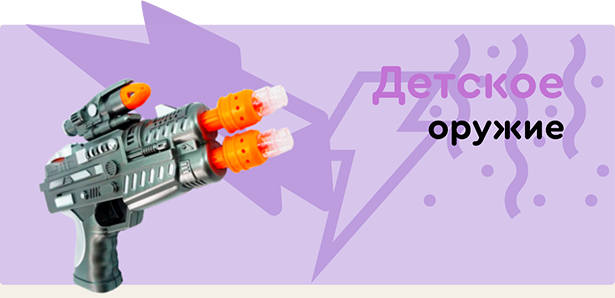
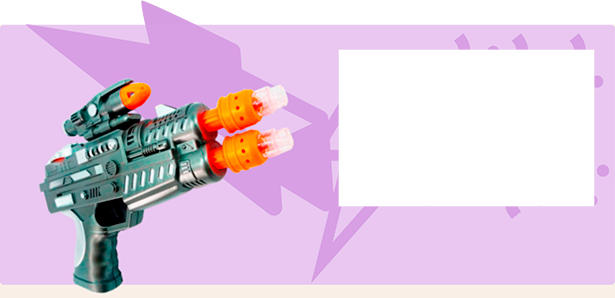
bugfix

diff --git a/app/css/style.css b/app/css/style.css
@@ -712,8 +712,8 @@ th {
 
 @font-face {
   font-family: 'cera_round_pro_bold';
-  src: url("../fonts/CeraRoundPro/CeraRoundPro-bold/CeraRoundPro-Bold.eot");
-  src: url("../fonts/CeraRoundPro/CeraRoundPro-bold/CeraRoundPro-Bold.eot?#iefix") format("embedded-opentype"), url("../fonts/CeraRoundPro/CeraRoundPro-bold/CeraRoundPro-Bold.woff") format("woff"), url("../fonts/CeraRoundPro/CeraRoundPro-bold/CeraRoundPro-Bold.ttf") format("truetype"), url("../fonts/CeraRoundPro/CeraRoundPro-bold/CeraRoundPro-Bold.svg#CeraRoundPro-Bold") format("svg");
+  src: url("../fonts/ceraroundpro/ceraroundpro-bold/ceraroundpro-bold.eot");
+  src: url("../fonts/ceraroundpro/ceraroundpro-bold/ceraroundpro-bold.eot?#iefix") format("embedded-opentype"), url("../fonts/ceraroundpro/ceraroundpro-bold/ceraroundpro-bold.woff") format("woff"), url("../fonts/ceraroundpro/ceraroundpro-bold/ceraroundpro-bold.ttf") format("truetype"), url("../fonts/ceraroundpro/ceraroundpro-bold/ceraroundpro-bold.svg#ceraroundpro-bold") format("svg");
   font-weight: normal;
   font-style: normal; }
 
@@ -2519,8 +2519,8 @@ a.breadcrumbs__item {
   vertical-align: middle;
   margin-bottom: 13px;
   margin-right: 13px;
-  -webkit-border-radius: 30px;
-          border-radius: 30px;
+  -webkit-border-radius: 35px;
+          border-radius: 35px;
   border: 1px solid transparent;
   -webkit-transition: all 0.3s ease;
   transition: all 0.3s ease;
@@ -4135,7 +4135,9 @@ input[type="email"],
   background-size: cover;
   background-repeat: no-repeat;
   background-position: center;
-  height: 500px; }
+  height: 500px;
+  display: block;
+  width: 100%; }
 
 .main-slider__info {
   background: #fff url(../img/svg/m-bg.svg) repeat;
@@ -4429,19 +4431,30 @@ input[type="email"],
   -webkit-transition: all 0.3s ease;
   transition: all 0.3s ease; }
 
-.banners__in--blue-sqheme {
-  background: #b3e6fd url(../img/content/banner-1.png) center 0 no-repeat;
-  background-size: cover;
+.banners__item--blue-sqheme {
   text-align: left; }
-  .banners__in--blue-sqheme span {
+  .banners__item--blue-sqheme .banners__txt {
+    padding-left: 40px; }
+  .banners__item--blue-sqheme span {
     color: #00a6e0; }
 
-.banners__in--violet-sqheme {
-  background: #d1c4ea url(../img/content/banner-2.png) center 10px no-repeat;
-  background-size: cover;
+.banners__item--violet-sqheme {
   text-align: right; }
-  .banners__in--violet-sqheme span {
+  .banners__item--violet-sqheme .banners__txt {
+    padding-right: 40px; }
+  .banners__item--violet-sqheme span {
     color: #af72ce; }
+
+.banners__txt {
+  color: #000;
+  font-size: 36px;
+  font-family: 'cera_round_pro_bold';
+  max-width: 370px;
+  display: inline-block;
+  padding-top: 45px; }
+  .banners__txt span {
+    font-size: 48px;
+    display: block; }
 
 .main-brends {
   background: #fff;
@@ -6220,7 +6233,11 @@ a.map-view {
   .product-info__price .btn-tooltip-wrap {
     float: none; }
   .popup-inline {
-    padding: 20px; } }
+    padding: 20px; }
+  .banners__item--blue-sqheme .banners__txt {
+    padding-left: 0; }
+  .banners__item--violet-sqheme .banners__txt {
+    padding-right: 0; } }
 
 @media screen and (max-width: 550px) {
   .img-list__item {

diff --git a/app/index.html b/app/index.html
@@ -437,7 +437,7 @@
 								<!-- CONTENT-PART -->
 								<div class="main-slider">
 									<div class="main-slider__item">
-										<div class="main-slider__img" style="background-image: url(img/content/main_banner.png);"></div>
+										<a href="#" class="main-slider__img" style="background-image: url(img/content/main_banner.png);"></a>
 										<div class="main-slider__info">
 											<div class="main-slider__title">-30 на все</div>
 											<div class="main-slider__txt">
@@ -447,7 +447,7 @@
 										</div>
 									</div>
 									<div class="main-slider__item">
-										<div class="main-slider__img" style="background-image: url(img/content/main_banner.png);"></div>
+										<a href="#" class="main-slider__img" style="background-image: url(img/content/main_banner.png);"></a>
 										<div class="main-slider__info">
 											<div class="main-slider__title">0 на все</div>
 											<div class="main-slider__txt">
@@ -457,7 +457,7 @@
 										</div>
 									</div>
 									<div class="main-slider__item">
-										<div class="main-slider__img" style="background-image: url(img/content/main_banner.png);"></div>
+										<a href="#" class="main-slider__img" style="background-image: url(img/content/main_banner.png);"></a>
 										<div class="main-slider__info">
 											<div class="main-slider__title">Без скидок</div>
 											<div class="main-slider__txt">
@@ -713,11 +713,19 @@
 									</div>
 								</div>
 								<div class="banners">
-									<a href="#" class="banners__item">
-										<div class="banners__in" style="background-image: url(img/content/banner1.png)"></div>
+									<a href="#" class="banners__item banners__item--blue-sqheme">
+										<div class="banners__in" style="background-image: url(img/content/banner1.png)">
+											<div class="banners__txt">
+												<span>Дистанционно</span> управляемые игрушки
+											</div>
+										</div>
 									</a>
-									<a href="#" class="banners__item">
-										<div class="banners__in" style="background-image: url(img/content/banner2.png)"></div>
+									<a href="#" class="banners__item banners__item--violet-sqheme">
+										<div class="banners__in" style="background-image: url(img/content/banner2.png)">
+											<div class="banners__txt">
+												<span>Детское</span> оружие
+											</div>
+										</div>
 									</a>
 								</div>
 								<!--end CONTENT-PART -->

diff --git a/dist/index.html b/dist/index.html
@@ -437,7 +437,7 @@
 								<!-- CONTENT-PART -->
 								<div class="main-slider">
 									<div class="main-slider__item">
-										<div class="main-slider__img" style="background-image: url(img/content/main_banner.png);"></div>
+										<a href="#" class="main-slider__img" style="background-image: url(img/content/main_banner.png);"></a>
 										<div class="main-slider__info">
 											<div class="main-slider__title">-30 на все</div>
 											<div class="main-slider__txt">
@@ -447,7 +447,7 @@
 										</div>
 									</div>
 									<div class="main-slider__item">
-										<div class="main-slider__img" style="background-image: url(img/content/main_banner.png);"></div>
+										<a href="#" class="main-slider__img" style="background-image: url(img/content/main_banner.png);"></a>
 										<div class="main-slider__info">
 											<div class="main-slider__title">0 на все</div>
 											<div class="main-slider__txt">
@@ -457,7 +457,7 @@
 										</div>
 									</div>
 									<div class="main-slider__item">
-										<div class="main-slider__img" style="background-image: url(img/content/main_banner.png);"></div>
+										<a href="#" class="main-slider__img" style="background-image: url(img/content/main_banner.png);"></a>
 										<div class="main-slider__info">
 											<div class="main-slider__title">Без скидок</div>
 											<div class="main-slider__txt">
@@ -713,11 +713,19 @@
 									</div>
 								</div>
 								<div class="banners">
-									<a href="#" class="banners__item">
-										<div class="banners__in" style="background-image: url(img/content/banner1.png)"></div>
+									<a href="#" class="banners__item banners__item--blue-sqheme">
+										<div class="banners__in" style="background-image: url(img/content/banner1.png)">
+											<div class="banners__txt">
+												<span>Дистанционно</span> управляемые игрушки
+											</div>
+										</div>
 									</a>
-									<a href="#" class="banners__item">
-										<div class="banners__in" style="background-image: url(img/content/banner2.png)"></div>
+									<a href="#" class="banners__item banners__item--violet-sqheme">
+										<div class="banners__in" style="background-image: url(img/content/banner2.png)">
+											<div class="banners__txt">
+												<span>Детское</span> оружие
+											</div>
+										</div>
 									</a>
 								</div>
 								<!--end CONTENT-PART -->

diff --git a/app/scss/style.scss b/app/scss/style.scss
@@ -14,11 +14,11 @@
 
 @font-face {
     font-family: 'cera_round_pro_bold';
-    src: url('../fonts/CeraRoundPro/CeraRoundPro-bold/CeraRoundPro-Bold.eot');
-    src: url('../fonts/CeraRoundPro/CeraRoundPro-bold/CeraRoundPro-Bold.eot?#iefix') format('embedded-opentype'),
-         url('../fonts/CeraRoundPro/CeraRoundPro-bold/CeraRoundPro-Bold.woff') format('woff'),
-         url('../fonts/CeraRoundPro/CeraRoundPro-bold/CeraRoundPro-Bold.ttf') format('truetype'),
-         url('../fonts/CeraRoundPro/CeraRoundPro-bold/CeraRoundPro-Bold.svg#CeraRoundPro-Bold') format('svg');
+    src: url('../fonts/ceraroundpro/ceraroundpro-bold/ceraroundpro-bold.eot');
+    src: url('../fonts/ceraroundpro/ceraroundpro-bold/ceraroundpro-bold.eot?#iefix') format('embedded-opentype'),
+         url('../fonts/ceraroundpro/ceraroundpro-bold/ceraroundpro-bold.woff') format('woff'),
+         url('../fonts/ceraroundpro/ceraroundpro-bold/ceraroundpro-bold.ttf') format('truetype'),
+         url('../fonts/ceraroundpro/ceraroundpro-bold/ceraroundpro-bold.svg#ceraroundpro-bold') format('svg');
     font-weight: normal;
     font-style: normal;
 }
@@ -1121,7 +1121,7 @@ span.breadcrumbs__item{
 	vertical-align: middle;
 	margin-bottom: 13px;
 	margin-right: 13px;
-	border-radius: 30px;
+	border-radius: 35px;
 	border: 1px solid transparent;
 	transition:all 0.3s ease;
 	font-size: 16px;
@@ -3116,6 +3116,8 @@ span.breadcrumbs__item{
 	background-repeat: no-repeat;
 	background-position: center;
 	height: 500px;
+	display: block;
+	width: 100%;
 }
 
 .main-slider__info{
@@ -3480,21 +3482,37 @@ span.breadcrumbs__item{
 	transition:all 0.3s ease;
 }
 
-.banners__in--blue-sqheme{
-	background: #b3e6fd url(../img/content/banner-1.png) center 0 no-repeat;
-	background-size: cover;
+.banners__item--blue-sqheme{
 	text-align: left;
+	.banners__txt{
+		padding-left: 40px;
+	}
+	
 	span{
 		color: #00a6e0;
 	}
 }
 
-.banners__in--violet-sqheme{
-	background: #d1c4ea url(../img/content/banner-2.png) center 10px no-repeat;
-	background-size: cover;
+.banners__item--violet-sqheme{
 	text-align: right;
+	.banners__txt{
+		padding-right: 40px;
+	}
 	span{
 		color: #af72ce;
+	}
+}
+
+.banners__txt{
+	color: #000;
+	font-size: 36px;
+	font-family: 'cera_round_pro_bold';
+	max-width: 370px;
+	display: inline-block;
+	    padding-top: 45px;
+	span{
+		font-size: 48px;
+		display: block;
 	}
 }
 

diff --git a/dist/css/style.css b/dist/css/style.css
@@ -4135,7 +4135,9 @@ input[type="email"],
   background-size: cover;
   background-repeat: no-repeat;
   background-position: center;
-  height: 500px; }
+  height: 500px;
+  display: block;
+  width: 100%; }
 
 .main-slider__info {
   background: #fff url(../img/svg/m-bg.svg) repeat;
@@ -4429,19 +4431,30 @@ input[type="email"],
   -webkit-transition: all 0.3s ease;
   transition: all 0.3s ease; }
 
-.banners__in--blue-sqheme {
-  background: #b3e6fd url(../img/content/banner-1.png) center 0 no-repeat;
-  background-size: cover;
+.banners__item--blue-sqheme {
   text-align: left; }
-  .banners__in--blue-sqheme span {
+  .banners__item--blue-sqheme .banners__txt {
+    padding-left: 40px; }
+  .banners__item--blue-sqheme span {
     color: #00a6e0; }
 
-.banners__in--violet-sqheme {
-  background: #d1c4ea url(../img/content/banner-2.png) center 10px no-repeat;
-  background-size: cover;
+.banners__item--violet-sqheme {
   text-align: right; }
-  .banners__in--violet-sqheme span {
+  .banners__item--violet-sqheme .banners__txt {
+    padding-right: 40px; }
+  .banners__item--violet-sqheme span {
     color: #af72ce; }
+
+.banners__txt {
+  color: #000;
+  font-size: 36px;
+  font-family: 'cera_round_pro_bold';
+  max-width: 370px;
+  display: inline-block;
+  padding-top: 45px; }
+  .banners__txt span {
+    font-size: 48px;
+    display: block; }
 
 .main-brends {
   background: #fff;
@@ -6220,7 +6233,11 @@ a.map-view {
   .product-info__price .btn-tooltip-wrap {
     float: none; }
   .popup-inline {
-    padding: 20px; } }
+    padding: 20px; }
+  .banners__item--blue-sqheme .banners__txt {
+    padding-left: 0; }
+  .banners__item--violet-sqheme .banners__txt {
+    padding-right: 0; } }
 
 @media screen and (max-width: 550px) {
   .img-list__item {

diff --git a/app/scss/components/media.scss b/app/scss/components/media.scss
@@ -946,6 +946,12 @@
 	.popup-inline {
 	    padding: 20px;
 	}
+	.banners__item--blue-sqheme .banners__txt {
+	    padding-left: 0;
+	}
+	.banners__item--violet-sqheme .banners__txt {
+	    padding-right: 0;
+	}
 }
 
 @media screen and (max-width: 550px){
